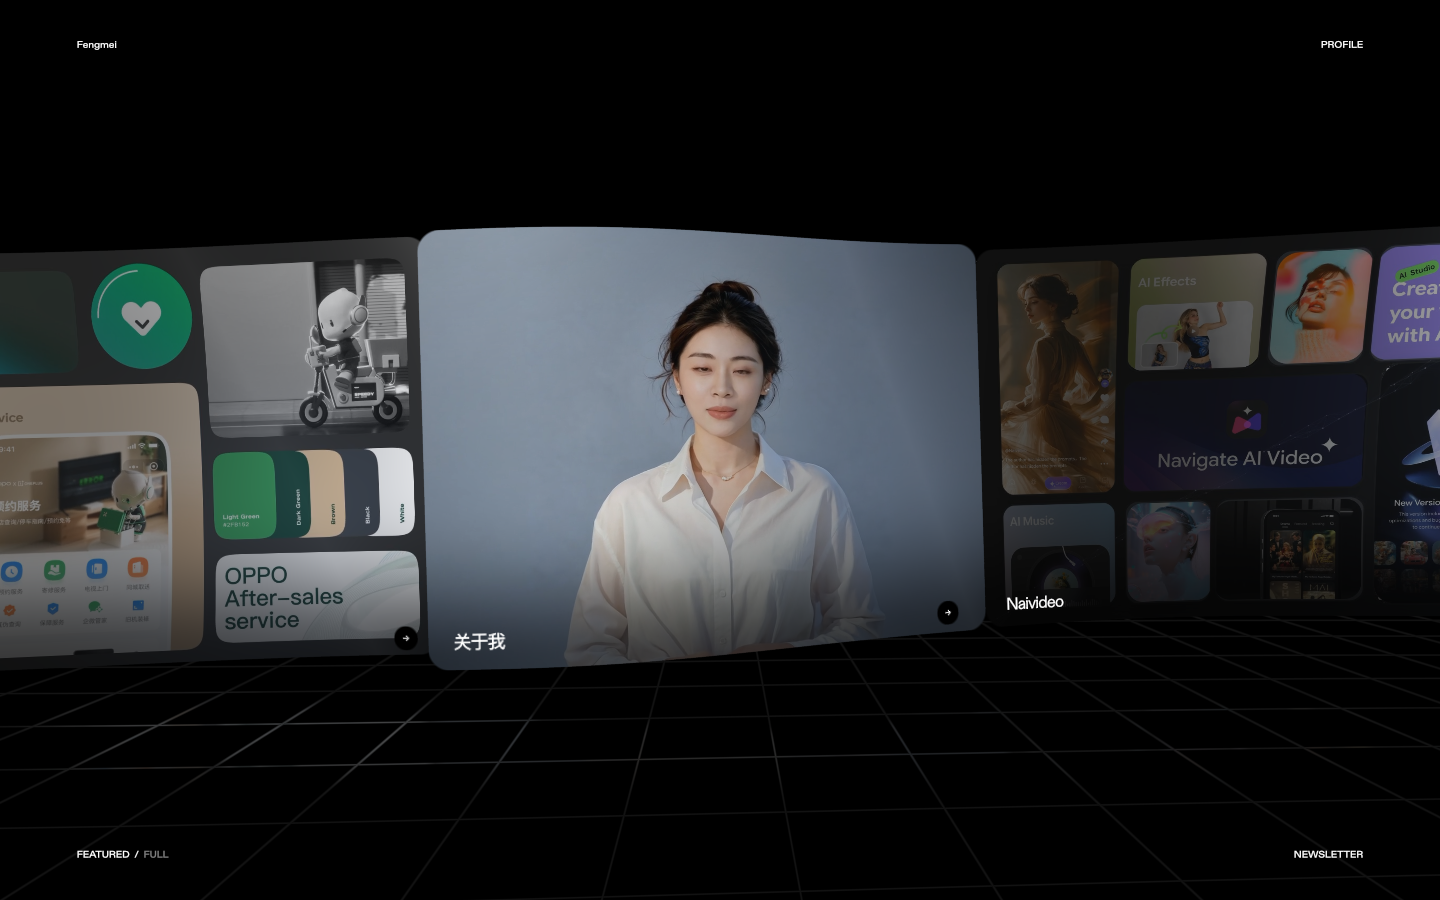
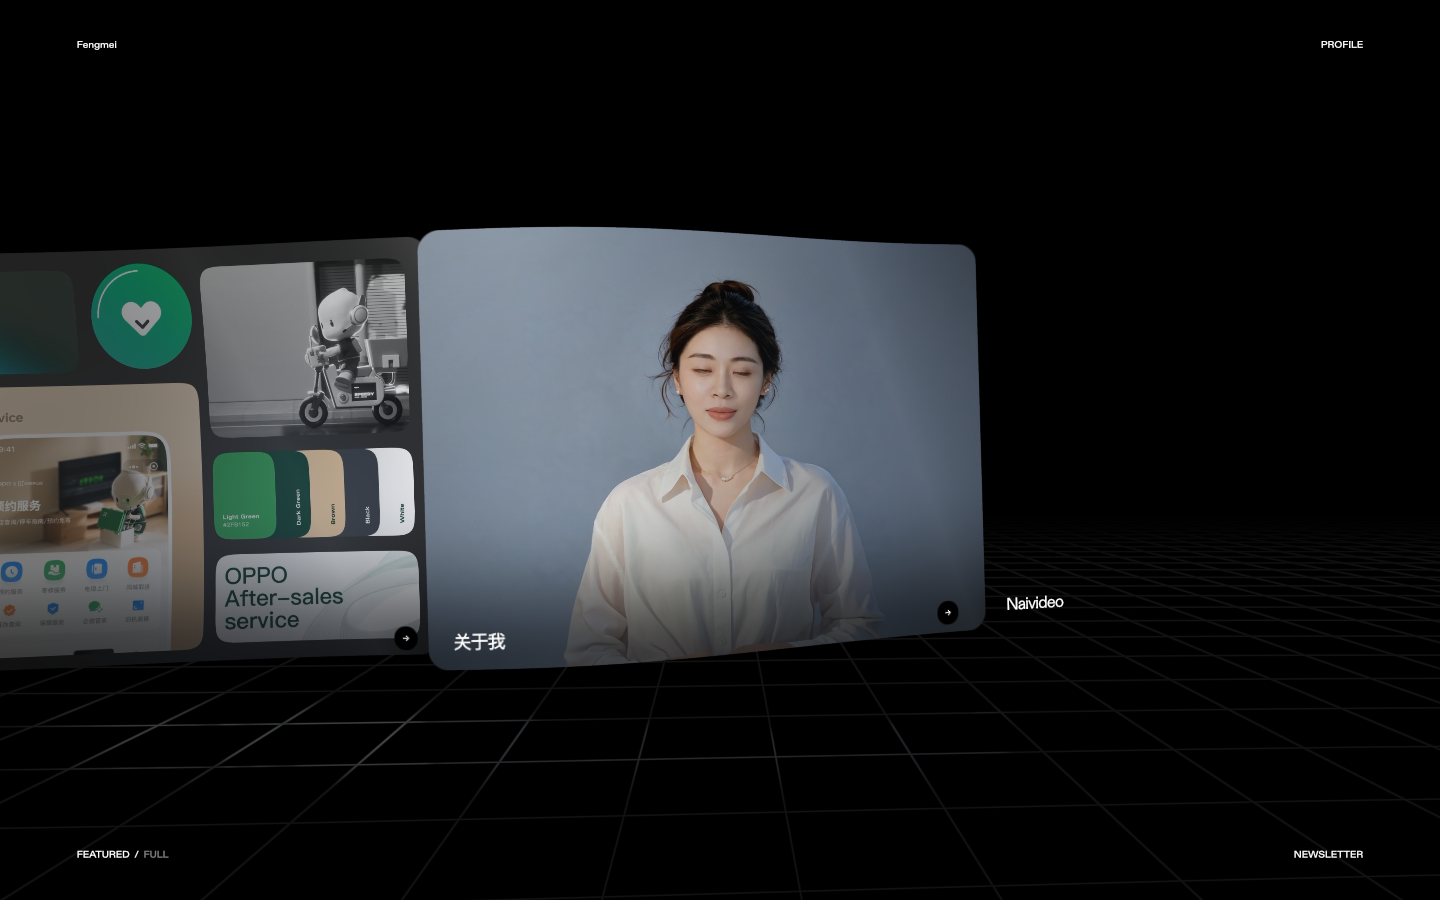
Use native project detail navigation for About video

Changed region(s): [[0.6875, 0.2489, 1.0, 0.6844], [0.875, 0.6533, 0.9375, 0.6844]]

diff --git a/tools/verify_showreel.js b/tools/verify_showreel.js
@@ -7,7 +7,7 @@ const wait=ms=>new Promise(r=>setTimeout(r,ms));
  const browser=await chromium.launch({executablePath:'/Applications/Google Chrome.app/Contents/MacOS/Google Chrome',headless:true,args:['--no-sandbox','--use-gl=angle','--use-angle=swiftshader','--enable-webgl','--ignore-gpu-blocklist','--autoplay-policy=no-user-gesture-required']});
  try {
  const page=await browser.newPage({viewport:{width:1440,height:900}}), errors=[];
- page.on('pageerror',e=>errors.push(e.message));
+ page.on('pageerror',e=>{if(errors.length<10)errors.push(e.stack||e.message);});
  page.on('console',m=>{if(m.type()==='error'||/hydration.*mismatch/i.test(m.text()))errors.push(m.text());});
  page.on('response',r=>{if(r.status()>=400)errors.push(r.status()+' '+r.url());});
  await page.addInitScript(()=>{window.__clips=[];const create=document.createElement;document.createElement=function(tag){const el=create.apply(this,arguments);if(String(tag).toLowerCase()==='video')window.__clips.push(el);return el;};});
@@ -20,27 +20,27 @@ const wait=ms=>new Promise(r=>setTimeout(r,ms));
  await page.screenshot({path:path.join(__dirname,'../screenshots/home_showreel.png')});
  const card=page.locator('[data-gl="card"][data-id="showreel"]');
  if(!(await card.innerText()).includes('关于我'))throw Error('About label missing');
- await card.click({force:true});
- await wait(1500);
+ await card.click({force:true});await wait(3500);
  const fullscreen=await page.evaluate(()=>{
-  const d=document.querySelector('.about-video-viewer'),v=d?.querySelector('video'),r=d?.getBoundingClientRect();
-  return {open:d?.open, width:r?.width,height:r?.height,vw:innerWidth,vh:innerHeight,muted:v?.muted,paused:v?.paused,time:v?.currentTime,text:d?.innerText,background:getComputedStyle(d).backgroundColor,radius:getComputedStyle(d).borderRadius,scrolls:d.scrollHeight>d.clientHeight};
+  const sheet=document.querySelector('[data-gl="sheet"][data-id="showreel"]'),v=sheet?.querySelector('.about-project-video'),r=v?.getBoundingClientRect();
+  return {path:location.pathname,video:!!v,width:r?.width,height:r?.height,muted:v?.muted,paused:v?.paused,time:v?.currentTime,copy:getComputedStyle(sheet.firstElementChild).display,related:[...document.querySelectorAll('[data-gl="related"] a')].map(a=>a.getAttribute('href')),scroll:sheet.scrollHeight-sheet.clientHeight};
  });
- if(!fullscreen.open||fullscreen.width!==fullscreen.vw-20||fullscreen.height!==fullscreen.vh-40||fullscreen.background!=='rgb(255, 255, 255)'||fullscreen.radius!=='20px'||fullscreen.scrolls||fullscreen.muted||fullscreen.paused||fullscreen.time<=0||fullscreen.text.trim())throw Error('Video-only fullscreen/audio failed: '+JSON.stringify(fullscreen));
+ if(fullscreen.path!=='/projects/showreel'||!fullscreen.video||fullscreen.muted||fullscreen.paused||fullscreen.time<=0||fullscreen.copy!=='none'||fullscreen.scroll>1||fullscreen.related.length!==2)throw Error('Native video detail failed: '+JSON.stringify(fullscreen));
  await page.screenshot({path:path.join(__dirname,'../screenshots/about_video_fullscreen.png')});
- await page.getByRole('button',{name:'关闭视频'}).click();
- if(await page.locator('.about-video-viewer').count())throw Error('Close failed');
- await card.click({force:true}); await page.keyboard.press('Escape');
- if(await page.locator('.about-video-viewer').count())throw Error('Escape failed');
- await page.setViewportSize({width:390,height:844});
- await page.goto(origin,{waitUntil:'domcontentloaded'});await wait(5000);
- await page.locator('[data-gl="card"][data-id="showreel"]').click({force:true});await wait(1500);
- const mobile=await page.locator('.about-video-viewer').boundingBox();
- if(mobile.width!==370||mobile.height!==824)throw Error('Mobile fullscreen dimensions failed');
+ await page.locator('[data-gl="related"][data-id="naivideo"] a').dispatchEvent('click');await wait(3000);
+ if(!page.url().endsWith('/projects/naivideo')||!await page.locator('[data-gl="sheet"][data-id="naivideo"]').count())throw Error('Next project failed');
+ if(await page.locator('.about-project-video').count())throw Error('Audio/video survived navigation');
+ await page.locator('[data-gl="related"][data-id="showreel"] a').dispatchEvent('click');await wait(3000);
+ if(!await page.locator('.about-project-video').count())throw Error('Return to About failed');
+ await page.locator('[data-gl="related"][data-id="oppo-service"] a').dispatchEvent('click');await wait(2500);
+ if(!page.url().endsWith('/projects/oppo-service'))throw Error('Previous project failed');
+ await page.goto(origin+'/projects/showreel',{waitUntil:'domcontentloaded'});await page.waitForFunction(()=>!document.querySelector('div.z-99'),{timeout:60000});await wait(3000);
+ await page.setViewportSize({width:390,height:844});await wait(1500);
+ const mobile=await page.locator('.about-project-video').boundingBox();
+ if(!mobile||mobile.width>390||mobile.height>844)throw Error('Mobile video dimensions failed');
  await page.screenshot({path:path.join(__dirname,'../screenshots/about_video_mobile.png')});
- await page.getByRole('button',{name:'关闭视频'}).click();
- await page.goto(origin+'/projects/showreel',{waitUntil:'domcontentloaded'});await wait(3500);
- if(!await page.locator('.about-video-viewer[open]').count())throw Error('Direct video link failed');
+ await page.locator('[data-gl="sheet"][data-id="showreel"] a[aria-label="Close project"]').dispatchEvent('click');await wait(2500);
+ if(new URL(page.url()).pathname!=='/'||await page.locator('.about-project-video').count())throw Error('Native close failed');
  if(errors.length)throw Error(JSON.stringify(errors));
  const report={cards,before,after,fullscreen,mobile,errors};fs.writeFileSync(path.join(__dirname,'../raw/verify_showreel.json'),JSON.stringify(report,null,2)+'\n');console.log(JSON.stringify(report));
  }finally{await browser.close();}

diff --git a/site/local-about.js b/site/local-about.js
@@ -1,26 +1,12 @@
-/* Open About as an accessible video-only viewer. The gallery stays muted. */
+/* Keep the native project sheet, related-project rail and close navigation.
+ * Only the About sheet's content becomes a viewport-sized, audible video. */
 (function () {
   'use strict';
-  var dialog = null, video = null, previousFocus = null, direct = false;
-  function close() {
-    if (!dialog) return;
-    video.pause();
-    video.removeAttribute('src');
-    video.load();
-    dialog.remove();
-    dialog = video = null;
-    document.documentElement.classList.remove('about-video-open');
-    if (direct) { location.assign('/'); return; }
-    previousFocus?.focus();
-  }
-  function open(fromLink) {
-    if (dialog) return;
-    direct = !fromLink;
-    previousFocus = document.activeElement;
-    dialog = document.createElement('dialog');
-    dialog.className = 'about-video-viewer';
-    dialog.setAttribute('aria-label', '关于我视频');
+  var video = null, pending = false;
+  function prepare() {
+    if (video) return video;
     video = document.createElement('video');
+    video.className = 'about-project-video';
     video.src = '/showreel/showreel.mp4';
     video.poster = '/showreel/showreel.jpg';
     video.playsInline = true;
@@ -28,33 +14,40 @@
     video.loop = true;
     video.muted = false;
     video.volume = 1;
-    video.preload = 'auto';
-    video.setAttribute('aria-label', '关于我');
-    var exit = document.createElement('button');
-    exit.type = 'button';
-    exit.className = 'about-video-close';
-    exit.setAttribute('aria-label', '关闭视频');
-    exit.innerHTML = '<svg viewBox="0 0 24 24" aria-hidden="true"><path d="m6 6 12 12M18 6 6 18"/></svg>';
-    exit.addEventListener('click', close);
-    dialog.addEventListener('cancel', function (event) { event.preventDefault(); close(); });
-    dialog.append(video, exit);
-    document.body.append(dialog);
-    document.documentElement.classList.add('about-video-open');
-    dialog.showModal();
-    // Called within the user's click so playback with audio is permitted.
-    video.play().catch(function () {
-      // A direct URL has no user gesture: native Play starts video with sound.
-      video.controls = true;
-    });
-    exit.focus();
+    video.setAttribute('aria-label', '关于我视频');
+    return video;
   }
+  function sync() {
+    pending = false;
+    var active = location.pathname.replace(/\/$/, '') === '/projects/showreel';
+    var slot = active && document.querySelector('[data-gl="sheet"][data-id="showreel"] [data-gl="simple"]');
+    if (slot) {
+      var player = prepare();
+      if (player.parentElement !== slot) {
+        slot.append(player);
+        player.play().catch(function () { /* Direct visits use native Play. */ });
+      }
+    } else if (!active && video && video.isConnected) {
+      video.pause();
+      video.remove();
+      video.removeAttribute('src');
+      video.load();
+      video = null;
+    }
+  }
+  function schedule() {
+    if (!pending) { pending = true; requestAnimationFrame(sync); }
+  }
+  // Unlock audio during the click, while leaving the native Vue handler intact.
   document.addEventListener('click', function (event) {
     var target = event.target.closest?.('[data-gl="card"][data-id="showreel"], a[href="/projects/showreel"]');
-    if (!target || event.button !== 0 || event.metaKey || event.ctrlKey || event.shiftKey || event.altKey) return;
-    event.preventDefault();
-    event.stopImmediatePropagation();
-    open(true);
+    if (target && event.button === 0 && !event.metaKey && !event.ctrlKey && !event.shiftKey && !event.altKey) {
+      prepare().play().catch(function () {});
+    }
+    schedule();
   }, true);
+  new MutationObserver(schedule).observe(document.body, {childList:true, subtree:true});
+  window.addEventListener('popstate', schedule);
   window.addEventListener('pagehide', function () { if (video) video.pause(); });
-  if (location.pathname.replace(/\/$/, '') === '/projects/showreel') open(false);
+  schedule();
 })();

diff --git a/site/local-copy.css b/site/local-copy.css
@@ -243,25 +243,22 @@ div.fixed.inset-0.z-40 a.label[href="/"] {
   }
 }
 
-/* About video opens above the complete gallery, without the case-study copy. */
-html.about-video-open { overflow: hidden; }
-.about-video-viewer {
-  position: fixed; inset: 20px 10px; width: calc(100vw - 20px); height: calc(100dvh - 40px);
-  max-width: none; max-height: none; margin: 0; padding: 24px; box-sizing: border-box;
-  border: 0; border-radius: 20px; background: #fff; overflow: hidden;
+/* About uses the stock project sheet and native previous/next controls.
+ * Its one media slot fills the sheet, without a text column or scroll area. */
+[data-gl="sheet"][data-id="showreel"] { padding: 0 !important; }
+[data-gl="sheet"][data-id="showreel"] > div:first-child { display: none !important; }
+[data-gl="sheet"][data-id="showreel"] > div:nth-child(2) {
+  position: absolute; inset: 30px 85px 30px 30px; width: auto !important;
+  height: auto; padding: 0 !important; gap: 0; transform: none !important;
 }
-.about-video-viewer::backdrop { background: #000; }
-.about-video-viewer video { display: block; width: 100%; height: 100%; object-fit: contain; background: #fff; border-radius: 16px; }
-.about-video-close {
-  position: absolute; top: max(20px, env(safe-area-inset-top));
-  right: max(20px, env(safe-area-inset-right)); width: 44px; height: 44px;
-  display: grid; place-items: center; border: 0;
-  border-radius: 50%; background: #000; color: #fff; cursor: pointer;
+[data-gl="sheet"][data-id="showreel"] [data-gl="simple"] {
+  position: relative; width: 100%; height: 100%; aspect-ratio: auto !important;
+  border-radius: 16px; overflow: hidden;
 }
-.about-video-close svg { width: 22px; height: 22px; stroke: currentColor; stroke-width: 1.8; fill: none; }
-.about-video-close:focus-visible { outline: 2px solid #777; outline-offset: 4px; }
-
+.about-project-video {
+  display: block; position: absolute; inset: 0; width: 100%; height: 100%;
+  object-fit: contain; background: #fff; pointer-events: auto;
+}
 @media (max-width: 640px) {
-  .about-video-viewer { inset: 10px; height: calc(100dvh - 20px); padding: 12px; border-radius: 20px; }
-  .about-video-close { top: max(16px, env(safe-area-inset-top)); right: 16px; }
+  [data-gl="sheet"][data-id="showreel"] > div:nth-child(2) { inset: 15px 15px 65px; }
 }

diff --git a/site/local-motion.js b/site/local-motion.js
@@ -135,6 +135,18 @@
         pose.quat.multiply(tiltX);
         return pose;
       };
+      // About keeps the native sheet; its audible DOM video owns the media.
+      var aboutSyncContent = folio.syncContent;
+      folio.syncContent = function () {
+        aboutSyncContent.apply(this, arguments);
+        for (var item of this.content) {
+          var about = !!item.el?.closest('[data-gl="sheet"][data-id="showreel"]');
+          if (about || item.mesh.userData.aboutHidden) {
+            item.mesh.visible = !about;
+            item.mesh.userData.aboutHidden = about;
+          }
+        }
+      };
       var syncTitles = folio.syncTitles;
       folio.syncTitles = function () {
         syncTitles.apply(this, arguments);
